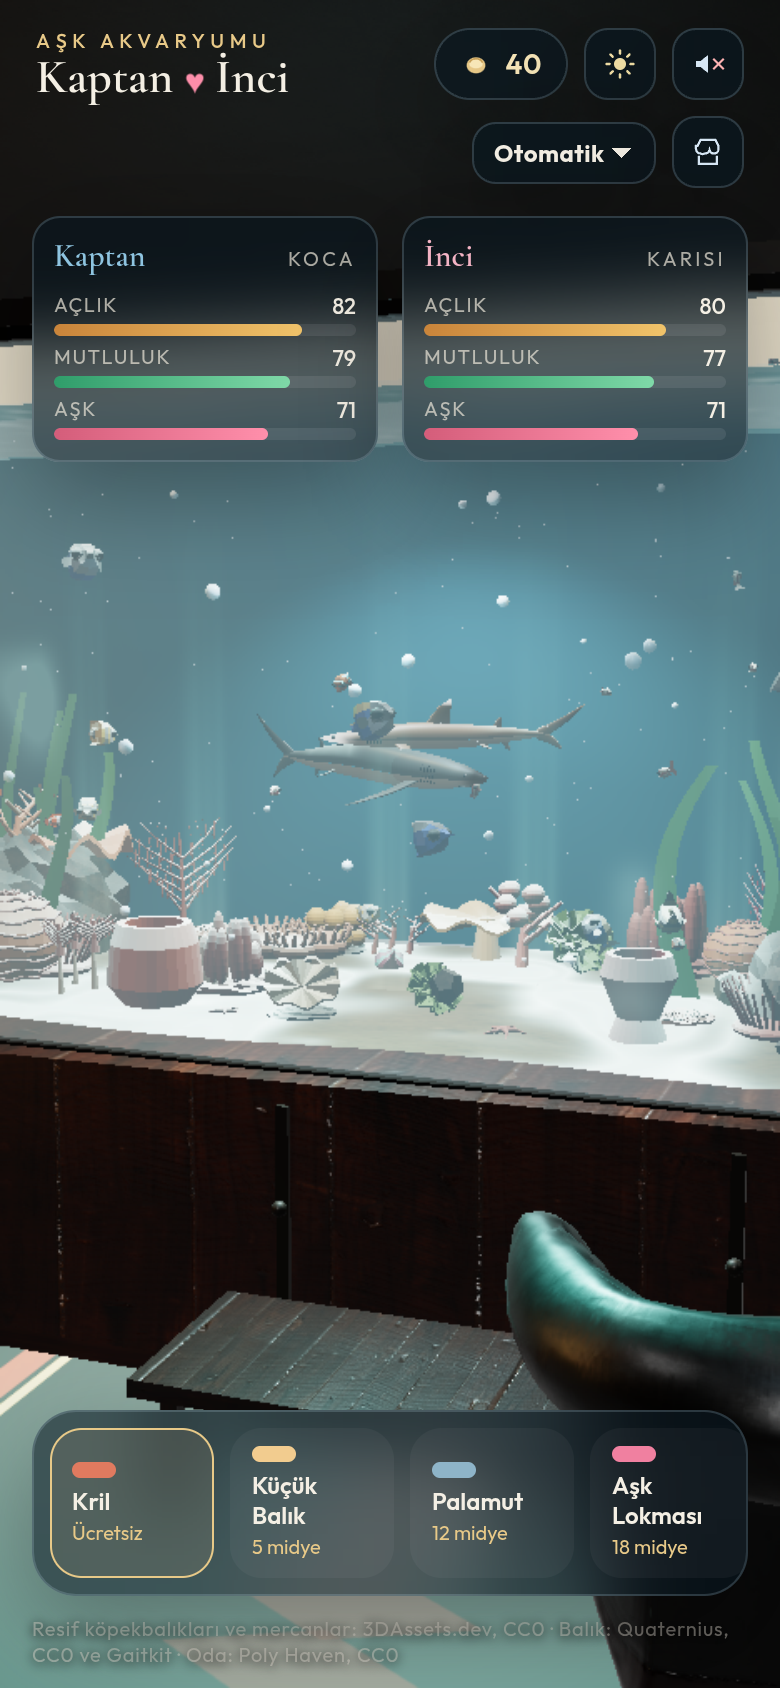
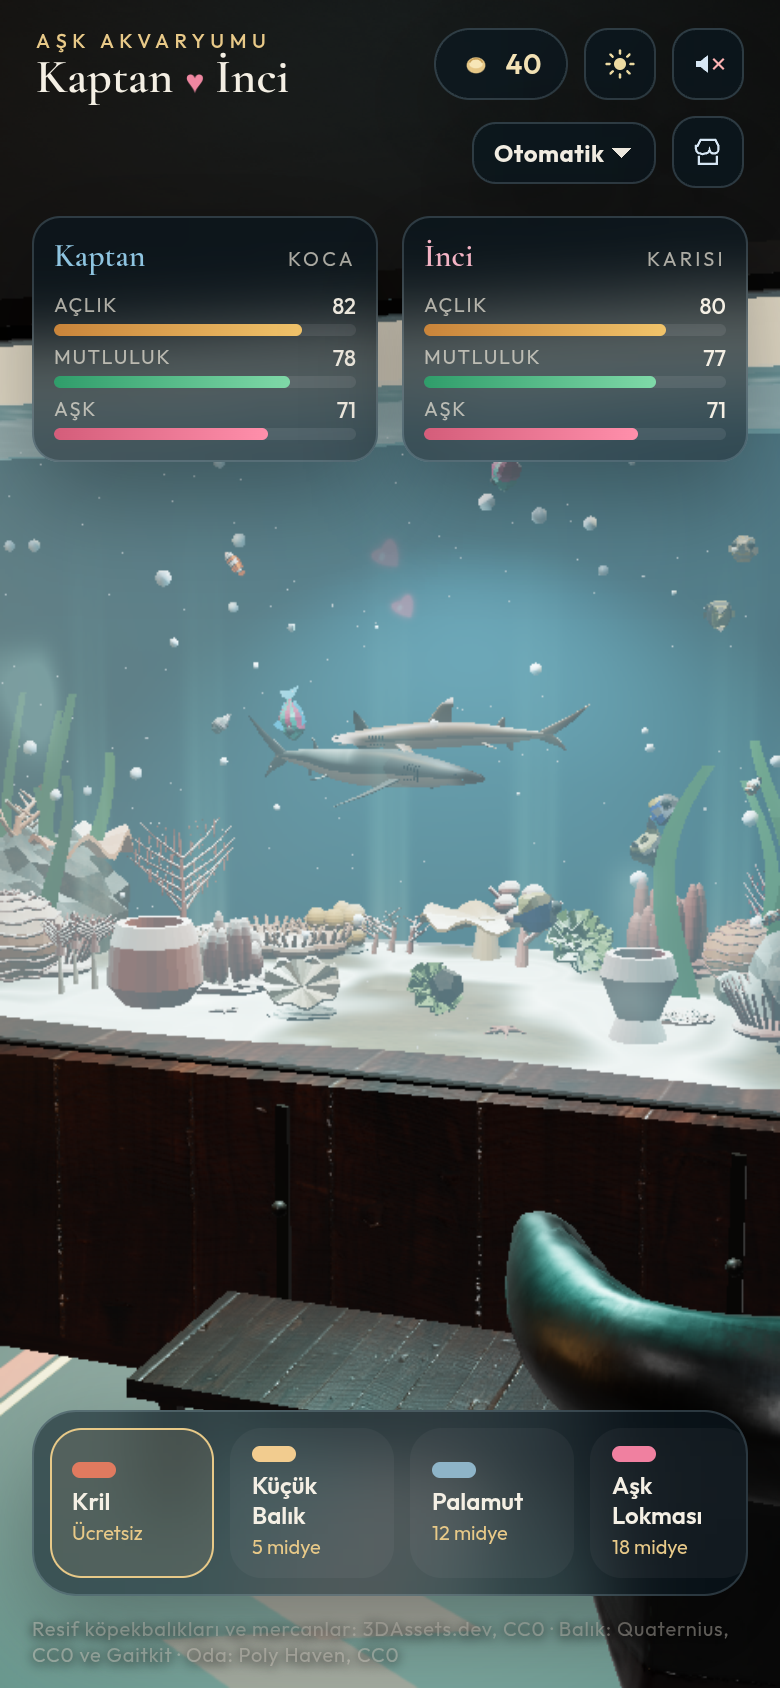
Oynanış: mama parçacıkları, ısırış ve birlikte yüzerken kalpler
Yem bırakınca ve yenince kırıntı patlaması, köpekbalıklarında prosedürel
çene ısırışı, daha parlak kalp spreyleri; çift yakınken de kalp çıkar.
Orta/llvmpipe görüntüleri temiz.

diff --git a/js/actors.js b/js/actors.js
@@ -207,6 +207,13 @@ const SWIM_VERT = `
   transformed.x += wag * uAmp * tail * 0.016;
   float pec = smoothstep(0.26, 0.44, along) * (1.0 - smoothstep(0.50, 0.74, along));
   transformed.y += sin(uTime * 6.2 + uPhase) * pec * uAmp * 0.10;
+  float bite = uBite;
+  if (bite > 0.001) {
+    float head = 1.0 - smoothstep(0.0, 0.22, along);
+    float lower = 1.0 - smoothstep(0.32, 0.58, aLift);
+    transformed.y -= head * lower * bite * 0.09;
+    transformed.x += head * bite * 0.025;
+  }
   vAlong = along;
   vLift = aLift;
   vSide = aSide;
@@ -237,6 +244,7 @@ export function createSharkActor(spec, gltf, uniforms, length) {
   const swimU = {
     uAmp: { value: 0.2 },
     uPhase: { value: Math.random() * 6.28 },
+    uBite: { value: 0 },
   };
 
   const pack = pickGltf(gltf, spec.gender);
@@ -256,10 +264,11 @@ export function createSharkActor(spec, gltf, uniforms, length) {
             uniforms: {
               uAmp: swimU.uAmp,
               uPhase: swimU.uPhase,
+              uBite: swimU.uBite,
               uMark: { value: spec.gender === "f" ? 1 : 0 },
               uCauGain: { value: 0.42 },
             },
-            vertexCommon: "attribute float aAlong; attribute float aLift; attribute float aSide; varying float vAlong; varying float vLift; varying float vSide; uniform float uAmp; uniform float uPhase; uniform float uTime;",
+            vertexCommon: "attribute float aAlong; attribute float aLift; attribute float aSide; varying float vAlong; varying float vLift; varying float vSide; uniform float uAmp; uniform float uPhase; uniform float uTime; uniform float uBite;",
             fragmentCommon: "varying float vAlong; varying float vLift; varying float vSide; uniform float uMark;",
             vertexBend: SWIM_VERT,
             fragmentExtra: p.userData.role === "eye" ? `
@@ -336,6 +345,7 @@ export function createSharkActor(spec, gltf, uniforms, length) {
 
 export function playBite(shark) {
   shark.biteT = 0.45;
+  if (shark.model?.userData?.swim?.uBite) shark.model.userData.swim.uBite.value = 0.15;
   const bite = shark.actions.bite;
   const swim = shark.actions.swim;
   if (bite) {
@@ -371,6 +381,13 @@ export function updateSharkVisual(shark, dt) {
   const swim = shark.model?.userData?.swim;
   if (swim) {
     swim.uAmp.value = 0.16 + Math.min(sp, 1.6) * 0.22;
+    if (shark.biteT > 0) {
+      shark.biteT = Math.max(0, shark.biteT - dt);
+      const open = shark.biteT > 0.22 ? (0.45 - shark.biteT) / 0.23 : shark.biteT / 0.22;
+      if (swim.uBite) swim.uBite.value = Math.max(0, Math.min(1, open));
+    } else if (swim.uBite) {
+      swim.uBite.value = 0;
+    }
   }
   shark.label.position.set(0, 0.32, 0);
 }
@@ -1314,35 +1331,100 @@ export function updateJellies(group, t) {
 }
 
 export function createFoodMesh(id, color) {
-  let mesh;
+  const group = new THREE.Group();
+  const mat = new THREE.MeshStandardMaterial({
+    color, emissive: new THREE.Color(color), emissiveIntensity: id === "treat" ? 0.55 : 0.22,
+    roughness: 0.4, metalness: 0.08,
+  });
+  let core;
   if (id === "treat") {
-    mesh = new THREE.Mesh(new THREE.OctahedronGeometry(0.04, 0), new THREE.MeshStandardMaterial({ color, emissive: color, emissiveIntensity: 0.4, roughness: 0.35 }));
+    core = new THREE.Mesh(new THREE.OctahedronGeometry(0.045, 0), mat);
   } else if (id === "krill") {
-    mesh = new THREE.Mesh(new THREE.SphereGeometry(0.025, 8, 6), new THREE.MeshStandardMaterial({ color, roughness: 0.5 }));
-    mesh.scale.set(1.6, 0.6, 0.7);
+    core = new THREE.Mesh(new THREE.SphereGeometry(0.028, 10, 8), mat);
+    core.scale.set(1.8, 0.55, 0.7);
   } else {
     const g = fishGeo();
-    g.scale(0.7, 0.7, 0.7);
-    mesh = new THREE.Mesh(g, new THREE.MeshStandardMaterial({ color, roughness: 0.5 }));
+    g.scale(0.75, 0.75, 0.75);
+    core = new THREE.Mesh(g, mat);
   }
-  mesh.castShadow = true;
-  return mesh;
+  core.castShadow = true;
+  group.add(core);
+  group.userData.foodCore = core;
+  return group;
+}
+
+export function createFeedBurst(color, n = 12) {
+  const group = new THREE.Group();
+  const col = new THREE.Color(color);
+  const items = [];
+  for (let i = 0; i < n; i++) {
+    const mat = new THREE.MeshBasicMaterial({
+      color: col.clone().offsetHSL(0, 0, (Math.random() - 0.5) * 0.15),
+      transparent: true, opacity: 0.95, depthWrite: false,
+    });
+    const m = new THREE.Mesh(new THREE.SphereGeometry(0.012 + Math.random() * 0.014, 6, 5), mat);
+    group.add(m);
+    items.push({
+      mesh: m,
+      vx: (Math.random() - 0.5) * 0.55,
+      vy: 0.12 + Math.random() * 0.35,
+      vz: (Math.random() - 0.5) * 0.55,
+      life: 0.45 + Math.random() * 0.4,
+      max: 0.85,
+    });
+  }
+  group.userData.burst = items;
+  return group;
+}
+
+export function updateFeedBursts(bursts, dt) {
+  return bursts.filter((b) => {
+    let alive = false;
+    for (const p of b.userData.burst) {
+      p.life -= dt;
+      if (p.life <= 0) { p.mesh.visible = false; continue; }
+      alive = true;
+      p.vy -= 0.55 * dt;
+      p.mesh.position.x += p.vx * dt;
+      p.mesh.position.y += p.vy * dt;
+      p.mesh.position.z += p.vz * dt;
+      const k = Math.max(0, p.life / p.max);
+      p.mesh.material.opacity = k;
+      p.mesh.scale.setScalar(0.5 + k * 0.8);
+    }
+    return alive;
+  });
 }
 
 export function createHeartSprite() {
   const c = document.createElement("canvas");
-  c.width = c.height = 64;
+  c.width = c.height = 128;
   const ctx = c.getContext("2d");
-  ctx.translate(32, 28);
+  const grd = ctx.createRadialGradient(64, 64, 8, 64, 64, 62);
+  grd.addColorStop(0, "rgba(255,180,200,0.0)");
+  grd.addColorStop(1, "rgba(255,80,120,0.0)");
+  ctx.fillStyle = grd;
+  ctx.fillRect(0, 0, 128, 128);
+  ctx.translate(64, 58);
   ctx.beginPath();
-  ctx.moveTo(0, 10);
-  ctx.bezierCurveTo(-18, -8, -16, -22, 0, -12);
-  ctx.bezierCurveTo(16, -22, 18, -8, 0, 10);
-  ctx.fillStyle = "#ff8fab";
+  ctx.moveTo(0, 22);
+  ctx.bezierCurveTo(-36, -10, -32, -40, 0, -22);
+  ctx.bezierCurveTo(32, -40, 36, -10, 0, 22);
+  ctx.fillStyle = "#ff5a86";
+  ctx.shadowColor = "rgba(255,90,140,0.85)";
+  ctx.shadowBlur = 16;
+  ctx.fill();
+  ctx.shadowBlur = 0;
+  ctx.fillStyle = "rgba(255,230,240,0.7)";
+  ctx.beginPath();
+  ctx.ellipse(-10, -10, 8, 5, -0.6, 0, 6.28);
   ctx.fill();
   const tex = new THREE.CanvasTexture(c);
   tex.colorSpace = THREE.SRGBColorSpace;
-  const mat = new THREE.SpriteMaterial({ map: tex, transparent: true, depthWrite: false });
+  const mat = new THREE.SpriteMaterial({
+    map: tex, transparent: true, depthWrite: false,
+    blending: THREE.AdditiveBlending,
+  });
   return new THREE.Sprite(mat);
 }
 

diff --git a/js/sim.js b/js/sim.js
@@ -4,7 +4,7 @@ import {
   createSharkActor, playBite, updateSharkVisual,
   createKelp, createFishSchool, updateFish, createReefScenery,
   createBubbles, updateBubbles, createSnow, updateSnow,
-  makeDecoration, updateJellies, createFoodMesh, createHeartSprite,
+  makeDecoration, updateJellies, createFoodMesh, createHeartSprite, createFeedBurst, updateFeedBursts,
 } from "./actors.js";
 
 export const SAVE_KEY = "askAkvaryumu:v1";
@@ -140,7 +140,7 @@ export function createGame(world, gltf) {
     bornAt: Date.now(),
     seenIntro: false,
     foods: [],
-    hearts: [],
+    hearts: [], bursts: [],
     kissCool: 8,
     kissing: 0,
     t: 0,
@@ -346,9 +346,10 @@ export function createGame(world, gltf) {
     for (let i = 0; i < n; i++) {
       const s = createHeartSprite();
       s.position.set(x + rand(-0.08, 0.08), y + rand(-0.04, 0.08), z + rand(-0.08, 0.08));
-      s.scale.setScalar(rand(0.12, 0.22));
+      const sc = rand(0.16, 0.28);
+      s.scale.setScalar(sc);
       world.interior.add(s);
-      state.hearts.push({ sprite: s, vy: rand(0.18, 0.35), life: rand(0.9, 1.6), max: 1.6 });
+      state.hearts.push({ sprite: s, vy: rand(0.18, 0.38), life: rand(1.1, 1.9), max: 1.9, baseScale: sc });
     }
   }
 
@@ -363,6 +364,10 @@ export function createGame(world, gltf) {
     const mesh = createFoodMesh(typ.id, typ.color);
     mesh.position.set(x, y, z);
     world.interior.add(mesh);
+    const burst = createFeedBurst(typ.color, 14);
+    burst.position.set(x, y, z);
+    world.interior.add(burst);
+    state.bursts.push(burst);
     state.foods.push({ id: typ.id, mesh, x, y, z, vy: 0.12, sink: 0, typ });
     audio.drop();
     save();
@@ -473,6 +478,10 @@ export function createGame(world, gltf) {
     s.eatCool = 0.4;
     state.coins += typ.coins;
     state.feedCount += 1;
+    const burst = createFeedBurst(typ.color, 16);
+    burst.position.copy(food.mesh.position);
+    world.interior.add(burst);
+    state.bursts.push(burst);
     world.interior.remove(food.mesh);
     state.foods = state.foods.filter((f) => f !== food);
     playBite(s);
@@ -486,6 +495,10 @@ export function createGame(world, gltf) {
 
   function maybeKiss(dt) {
     state.kissCool = Math.max(0, state.kissCool - dt);
+    if (canBond() && dist3(sharks[0], sharks[1]) < 1.15 && state.kissing <= 0 && Math.random() < 0.04) {
+      const a = sharks[0], b = sharks[1];
+      burstHearts((a.x + b.x) / 2, (a.y + b.y) / 2 + 0.16, (a.z + b.z) / 2, 1);
+    }
     if (state.kissing > 0) {
       state.kissing -= dt;
       if (Math.random() < 0.25) {
@@ -530,7 +543,12 @@ export function createGame(world, gltf) {
     state.hearts = state.hearts.filter((h) => {
       h.life -= dt;
       h.sprite.position.y += h.vy * dt;
-      h.sprite.material.opacity = clamp(h.life / h.max, 0, 1);
+      h.sprite.position.x += Math.sin((h.max - h.life) * 6 + h.vy) * 0.08 * dt;
+      const k = clamp(h.life / h.max, 0, 1);
+      h.sprite.material.opacity = k;
+      const s = (h.baseScale || h.sprite.scale.x) * (0.85 + 0.25 * Math.sin((h.max - h.life) * 8));
+      h.sprite.scale.setScalar(s);
+      h.sprite.material.rotation += dt * 0.6;
       if (h.life <= 0) { world.interior.remove(h.sprite); return false; }
       return true;
     });
@@ -547,6 +565,11 @@ export function createGame(world, gltf) {
     updateBubbles(bubbles, state.t, dt);
     updateSnow(snow, dt);
     updateHearts(dt);
+    if (state.bursts) {
+      const keep = updateFeedBursts(state.bursts, dt);
+      state.bursts.filter((b) => !keep.includes(b)).forEach((b) => world.interior.remove(b));
+      state.bursts = keep;
+    }
     if (decorMeshes.jelly) updateJellies(decorMeshes.jelly, state.t);
     if (canBond() && Math.sin(state.t * 2) > 0.7 && Math.random() < 0.02) {
       const a = sharks[0], b = sharks[1];
@@ -645,5 +668,5 @@ export function createGame(world, gltf) {
   bindUI();
   setDayNight(world, state.nightT);
 
-  return { state, sharks, tick, save, audio, fish };
+  return { state, sharks, tick, save, audio, fish, burstHearts, dropFoodAt };
 }

diff --git a/index.html b/index.html
@@ -138,6 +138,6 @@
       </form>
     </div>
   </div>
-  <script type="module" src="js/main.js?v=20261121u"></script>
+  <script type="module" src="js/main.js?v=20261121v"></script>
 </body>
 </html>
